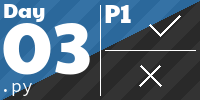
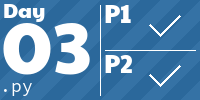
[2024/3] p2 solved

diff --git a/2024/3/script.py b/2024/3/script.py
@@ -1,11 +1,36 @@
 from GhostyUtils import aoc
 import re
+import math
+
+
+def find_muls(stream):
+    muls = [tuple(map(int, m[1].split(","))) for m in re.finditer(r"mul\((\d+,\d+)\)", stream)]
+    return muls
+
+
+def find_instrs(stream):
+    instrs = [m for m in re.finditer(r"mul\((\d+,\d+)\)|do\(\)|don't\(\)", stream)]
+    return instrs
 
 
 def main():
-    instrs = aoc.read()
-    muls = re.findall(r"mul\((\d+),(\d+)\)", instrs)
-    print("p1:", sum(int(m1) * int(m2) for m1, m2 in muls))
+    stream = aoc.read()
+
+    muls = find_muls(stream)
+    print("p1:", sum(l * r for l, r in muls))
+
+    enabled = True
+    total = 0
+    instrs = find_instrs(stream)
+    for instr in instrs:
+        if instr[0] == "don't()":
+            enabled = False
+        elif instr[0] == "do()":
+            enabled = True
+        elif enabled:
+            total += math.prod(map(int, instr[1].split(',')))
+
+    print("p2:", total)
 
 
 if __name__ == "__main__":

diff --git a/README.md b/README.md
@@ -3,10 +3,10 @@ My solutions to the yearly Advents of Code
 
 <!-- AOC TILES BEGIN -->
 <h1 align="center">
-  Advent of Code - 166/456 ⭐
+  Advent of Code - 167/456 ⭐
 </h1>
 <h1 align="center">
-  2024 - 5 ⭐ - Python
+  2024 - 6 ⭐ - Python
 </h1>
 <a href="2024/1/script.py">
   <img src=".aoc_tiles/tiles/2024/01.png" width="161px">
